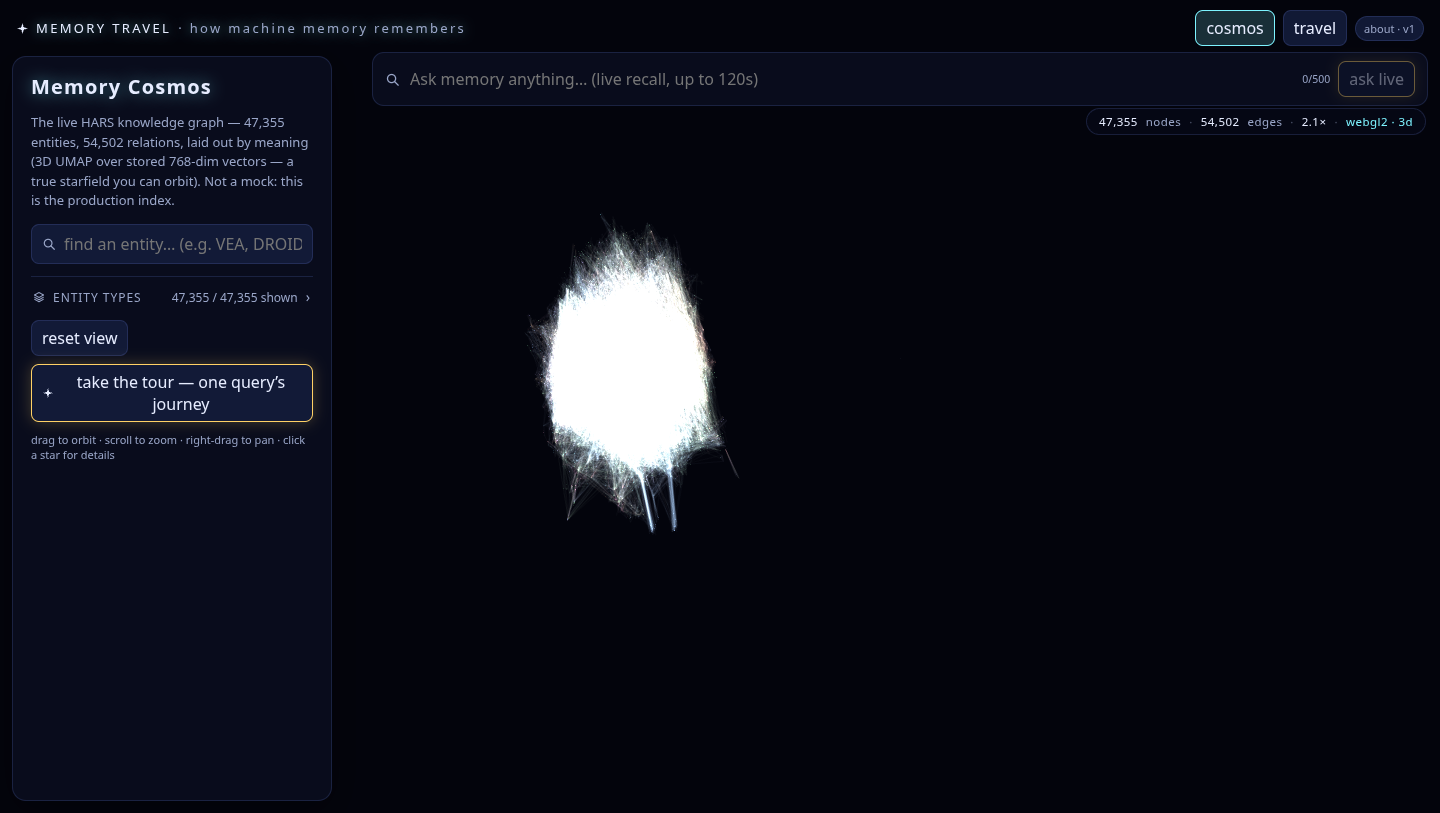
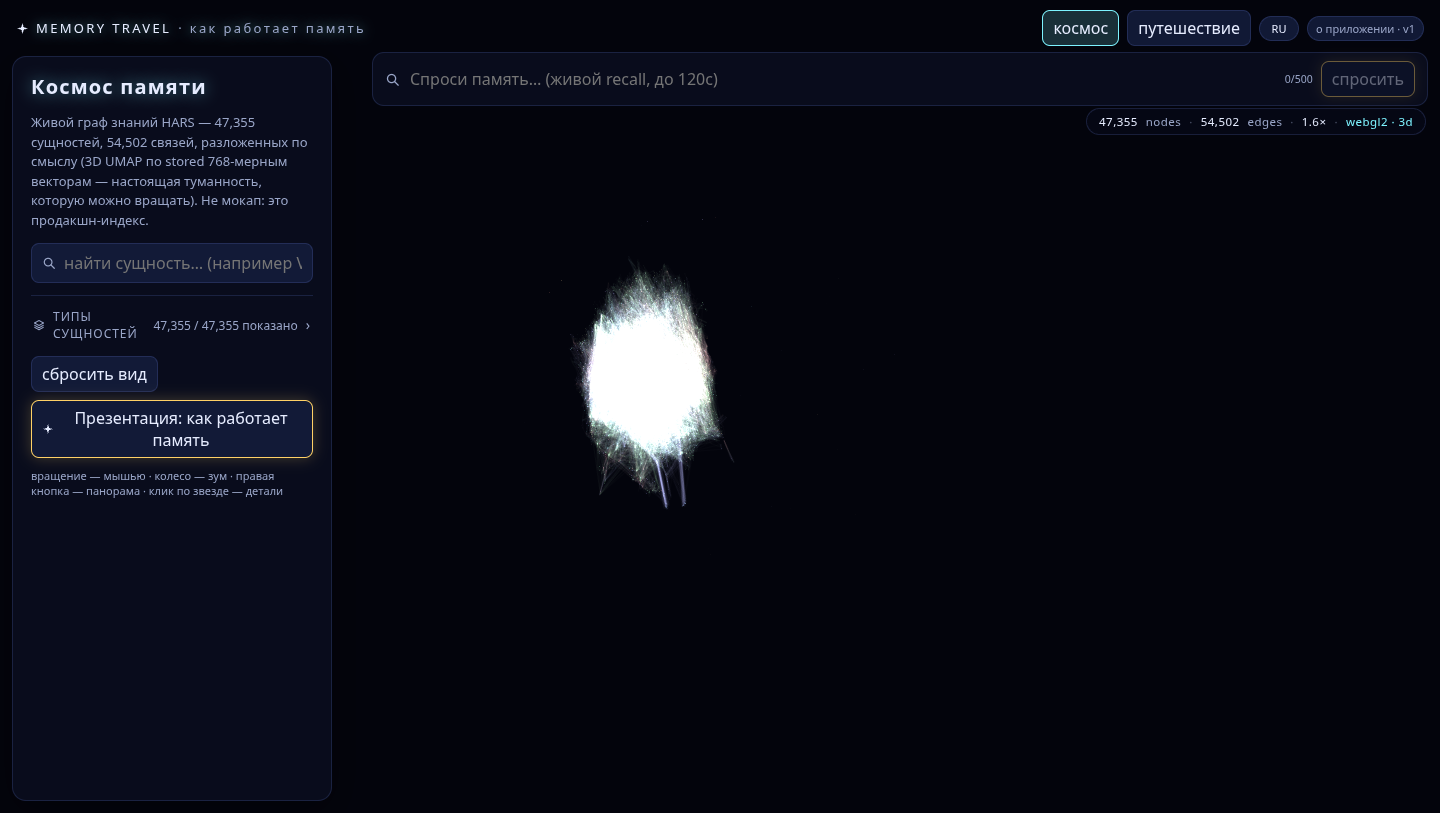
fix(pres/travel): world-coord camera keyframes; marker shader uniform; render-skip for hidden canvases; docs
- journey camera contexts (TravelView + PresentationView) now pass WORLD
  coords to stageCamera (raw UMAP units put the camera at the origin staring
  at empty space); presentation replays the chapter after trace load so the
  keyframe wins over fit().
- MARKER_FRAG: declare uPulse (markers silently failed to compile - the
  journey beacons were invisible).
- Cosmos3D: skip controls+render when the canvas is hidden (presentation fps
  5 -> 53 under SwiftShader); dpr cap 1.5; star presence +fog easing.
- docs/presentation.md (chapters, controls, provenance, RU strings referenced);
  screenshots for cosmos/travel/inspector/chunk-viewer/presentation.

diff --git a/app/src/components/PresentationView.tsx b/app/src/components/PresentationView.tsx
@@ -98,6 +98,7 @@ export default function PresentationView({ onExit }: { onExit: () => void }) {
     // eslint-disable-next-line react-hooks/exhaustive-deps
   }, [cosmosFull, graph, posByIdx, chViz]);
 
+  const [traceLoaded, setTraceLoaded] = useState(0);
   useEffect(() => {
     if (chViz !== "trace" || !cosmosTrace || !trace) return;
     let dead = false;
@@ -118,7 +119,13 @@ export default function PresentationView({ onExit }: { onExit: () => void }) {
           return p ? toWorld3(p) : null;
         }),
       )
-      .then(() => !dead && setProgress(null))
+      .then(() => {
+        if (dead) return;
+        setProgress(null);
+        // load() ends with fit(): re-run the chapter choreography so the
+        // chapter camera keyframe wins over the fit position
+        setTraceLoaded((v) => v + 1);
+      })
       .catch((e) => !dead && setProgress(String(e)));
     return () => {
       dead = true;
@@ -172,12 +179,13 @@ export default function PresentationView({ onExit }: { onExit: () => void }) {
     } else if (trace) {
       const stage = ch.stage ?? 0;
       const qpos = trace.query.xyz ?? null;
+      const W = (p: XYZ | null): XYZ | null => (p ? toWorld3(p) : null);
       const key = stageCamera(stage, {
-        query: qpos,
-        vecCluster: centroid(trace.vector_hits.slice(0, 12).map((h) => h.xyz).filter((p): p is XYZ => !!p)),
-        seeds: centroid(trace.graph.nodes.filter((n) => n.seed).map((n) => n.xyz).filter((p): p is XYZ => !!p)),
-        bm25: centroid(trace.bm25_hits.slice(0, 12).map((h) => h.xyz).filter((p): p is XYZ => !!p)),
-        scene: qpos,
+        query: W(qpos),
+        vecCluster: W(centroid(trace.vector_hits.slice(0, 12).map((h) => h.xyz).filter((p): p is XYZ => !!p))),
+        seeds: W(centroid(trace.graph.nodes.filter((n) => n.seed).map((n) => n.xyz).filter((p): p is XYZ => !!p))),
+        bm25: W(centroid(trace.bm25_hits.slice(0, 12).map((h) => h.xyz).filter((p): p is XYZ => !!p))),
+        scene: W(qpos),
       });
       if (j3d) j3d.cameraFly(key.pos, key.target, 1400, "inout");
       const paint = (names: string[], color: typeof INK.cyan) => {
@@ -247,7 +255,7 @@ export default function PresentationView({ onExit }: { onExit: () => void }) {
       });
     };
     // eslint-disable-next-line react-hooks/exhaustive-deps
-  }, [chapter, trace, cosmosFull, cosmosTrace, chViz, posOf]);
+  }, [chapter, trace, cosmosFull, cosmosTrace, chViz, posOf, traceLoaded]);
 
   useEffect(() => {
     if (progress) return; // wait for data

diff --git a/app/src/lib/cosmos3d.ts b/app/src/lib/cosmos3d.ts
@@ -113,7 +113,7 @@ const POINT_FRAG = /* glsl */ `
     // Small per-star contribution: with 47k stars the GLOW comes from
     // additive overlap in dense clusters — vivid cores wash to white if
     // each sprite contributes too much.
-    float a = (core * 0.22 + halo * 0.08) * vAlpha;
+    float a = (core * 0.28 + halo * 0.10) * vAlpha;
     gl_FragColor = vec4(vColor * (0.72 + core * 0.55), a);
   }
 `;
@@ -162,6 +162,7 @@ const LINE_FRAG = /* glsl */ `
 
 const MARKER_VERT = POINT_VERT;
 const MARKER_FRAG = /* glsl */ `
+  uniform float uPulse; // seconds — beacons breathe
   varying vec3 vColor;
   varying float vAlpha;
   void main() {
@@ -264,7 +265,9 @@ export class Cosmos3D implements CosmosLike, Journey3D {
     }
     this.canvas = canvas;
     this.renderer = renderer;
-    this.dpr = Math.min(2, window.devicePixelRatio || 1);
+    // SwiftShader-class software rasterizers choke on dpr≥2 at 47k additive
+    // points; 1.5 keeps real-GPU sharpness while staying fast in software.
+    this.dpr = Math.min(1.5, window.devicePixelRatio || 1);
     renderer.setPixelRatio(this.dpr);
     renderer.setClearColor(BG, 1);
     this.camera = new THREE.PerspectiveCamera(55, 1, 0.1, 4000);
@@ -286,6 +289,10 @@ export class Cosmos3D implements CosmosLike, Journey3D {
     this.ro.observe(canvas);
     this.startPulseClock();
     this.renderer.setAnimationLoop(() => {
+      // hidden canvases (tab switches, presentation's inactive canvas) skip
+      // both the controls update and the render — keeps software rasterizers
+      // from burning frames on an invisible view
+      if (this.canvas && this.canvas.offsetParent === null) return;
       this.controls?.update();
       this.renderer?.render(this.scene, this.camera!);
     });
@@ -371,7 +378,7 @@ export class Cosmos3D implements CosmosLike, Journey3D {
       uniforms: {
         uScale: { value: this.pointScale() },
         uTime: { value: 0 },
-        uFog: { value: 0.55 },
+        uFog: { value: 0.4 },
         uFogRef: { value: this.fitDist },
       },
       transparent: true,

diff --git a/app/src/lib/presentation.ts b/app/src/lib/presentation.ts
@@ -40,7 +40,7 @@ export const CHAPTERS: PresentationChapter[] = [
     viz: "cosmos",
     title: { ru: "Что это", en: "What this is" },
     narration: ({ nodes, edges }) => ({
-      ru: `Перед вами долговременная память агента: ${MEASURED.docs.toLocaleString("ru-RU")} заметок превращены в ${nodes.toLocaleString("ru-RU")} сущностей и ${edges.toLocaleString("ru-RU")} связей. Это GraphRAG-гибрид: векторный поиск по смыслу + knowledge graph + BM25 по словам. Каждая звезда — реальная сущность продакшн-индекса, положение — 3D UMAP по 768-мерным векторам.`,
+      ru: `Перед вами долговременная память агента: ${MEASURED.docs.toLocaleString("ru-RU")} заметки превращены в ${nodes.toLocaleString("ru-RU")} сущностей и ${edges.toLocaleString("ru-RU")} связей. Это GraphRAG-гибрид: векторный поиск по смыслу + knowledge graph + BM25 по словам. Каждая звезда — реальная сущность продакшн-индекса, положение — 3D UMAP по 768-мерным векторам.`,
       en: `This is an agent's long-term memory: ${MEASURED.docs.toLocaleString("en-US")} notes distilled into ${nodes.toLocaleString("en-US")} entities and ${edges.toLocaleString("en-US")} relations. A GraphRAG hybrid: semantic vector search + a knowledge graph + BM25 over words. Every star is a real entity of the production index; positions are a 3D UMAP of 768-dim vectors.`,
     }),
     fact: ({ nodes, edges }) => ({

diff --git a/app/src/components/TravelView.tsx b/app/src/components/TravelView.tsx
@@ -277,8 +277,11 @@ export default function TravelView({ cosmos, manifest, liveTrace }: Props) {
     return arr;
   }, [trace, ringDepth]);
 
-  // journey-camera context per stage
+  // journey-camera context per stage (WORLD coords — stageCamera distances
+  // are world-scale; raw UMAP units would put the camera near the origin,
+  // staring at mostly empty space)
   const camCtx = useMemo(() => {
+    const W = (p: XYZ | null): XYZ | null => p ? toWorld3(p) : null;
     const vc = centroidOfList(trace?.vector_hits.slice(0, 12).map(hitPos).filter((p): p is XYZ => p !== null) ?? []);
     const seeds = trace?.graph.nodes.filter((n) => n.seed).map((n) => p3(n)).filter((p): p is XYZ => p !== null) ?? [];
     const bc = centroidOfList(trace?.bm25_hits.slice(0, 12).map(hitPos).filter((p): p is XYZ => p !== null) ?? []);
@@ -287,7 +290,7 @@ export default function TravelView({ cosmos, manifest, liveTrace }: Props) {
       ...(vc ? [vc] : []),
       ...seeds,
     ]);
-    return { query: queryPos, vecCluster: vc, seeds: centroidOfList(seeds), bm25: bc, scene: all };
+    return { query: W(queryPos), vecCluster: W(vc), seeds: W(centroidOfList(seeds)), bm25: W(bc), scene: W(all) };
     // eslint-disable-next-line react-hooks/exhaustive-deps
   }, [trace, posOf, queryPos]);
 

diff --git a/docs/presentation.md b/docs/presentation.md
@@ -1,0 +1,81 @@
+# Presentation mode — «Презентация: как работает память»
+
+A guided 9-chapter walkthrough of how the HARS long-term memory works, driven
+entirely by real data (the exported 47k-entity graph + one real `memory_recall`
+trace). Launched from the tour button on the cosmos panel; `Esc` exits.
+
+Bilingual from day one: RU (default) and EN, switchable mid-presentation via
+the RU/EN toggle (top-right) — the chapter position is kept, only the strings
+swap. Language persists in `localStorage` (`mt.lang.v1`).
+
+## Controls
+
+| Key / UI | Action |
+| --- | --- |
+| `←` / `→` | previous / next chapter |
+| `Space` | play / pause the current chapter's animation |
+| `F` | fullscreen |
+| `Esc` | close chapter menu, or exit the presentation |
+| «Главы» button | chapter menu overlay |
+| «данные этапа ⚙» | opens the stage inspector over the live scene (trace chapters) |
+| RU / EN toggle | switch narration language without losing position |
+
+## Chapters (viz source: `cosmos` = full 47k starfield, `trace` = the recall subgraph)
+
+The narration texts below are the exact strings from
+`app/src/lib/presentation.ts` (type-safe `L10n {ru, en}` pairs — a missing
+translation is a build error). `{…}` are filled with real trace telemetry at
+runtime.
+
+### 1. Что это / What this is — `cosmos`
+- **RU:** «Перед вами долговременная память агента: 1 854 заметки превращены в {nodes} сущностей и {edges} связей. Это GraphRAG-гибрид: векторный поиск по смыслу + knowledge graph + BM25 по словам. Каждая звезда — реальная сущность продакшн-индекса, положение — 3D UMAP по 768-мерным векторам.»
+- **EN:** “This is an agent's long-term memory: 1,854 notes distilled into {nodes} entities and {edges} relations. A GraphRAG hybrid: semantic vector search + a knowledge graph + BM25 over words. Every star is a real entity of the production index; positions are a 3D UMAP of 768-dim vectors.”
+- **Fact:** `47 355 сущностей · 54 502 связей — не мокап, а живой индекс.`
+
+### 2. Как знание попадает в память / How knowledge enters memory — `cosmos`
+- Shows a REAL note (`docs-specs-demo-alignment-task.spec.md`), its REAL
+  md_struct section chunks (heading path / line ranges / tokens), and the
+  teacher's REAL extraction records — exported verbatim from the index kv
+  stores by `scripts/export_ingest_fixture.py` into `app/public/data/ingest_fixture.json`.
+- **RU:** «Заметка разрезается md_struct-чанкером по секциям (заголовки → секции → чанки с номерами строк). Учитель — локальная 27B модель — извлекает из каждого чанка сущности и связи; мердж идёт в общий граф. Справа в карточке — настоящая заметка и её настоящие extraction-записи из кэша учителя.»
+
+### 3. Вопрос → эмбеддинг / Question → embedding — `trace` (stage: query)
+- The magenta query beacon lands at the question's true UMAP position.
+- **Fact (real):** «dense-поиск по 30 чанкам занял 36.65 мс.»
+
+### 4. Параллельные каналы / Parallel channels — `trace` (stage: vector)
+- Cyan vector hits pulse in staggered by score; the narration contrasts the
+  channels' failure modes.
+
+### 5. Фьюжн / Fusion — `trace` (stage: fusion)
+- Orange fused-ranking pulses; real α = 0.5; fact: `fusion recall@10 = 0.979 при 12.7 мс`.
+
+### 6. Реранк / Rerank — `trace` (stage: rerank)
+- White flares mark chunks that moved; guardrail/skip behaviour from telemetry.
+
+### 7. Сборка контекста / Context assembly — `trace` (stage: context)
+- Gold lines connect the query marker to every context entity; budget numbers
+  (15 000 chars, 6 000 per doc, whole-document granularity).
+
+### 8. Синтез / Synthesis — `trace` (stage: answer)
+- The pink journey trail through query → fusion hits → answer anchors, camera
+  pulled back; per-fact citations.
+
+### 9. Цифры / The numbers — `cosmos`
+- Measured results: `fusion recall@10 = 0.979 @ 12.7 мс; реранк ~1.6 с на iGPU;
+  1 854 документа, 60 117 связей`.
+
+## Data provenance
+
+- Full graph: `app/public/data/graph.json` (+3D UMAP coords) — exported from
+  the production index, see `docs/SETUP.md` §3.
+- Trace: `app/public/data/traces/trace_01.json` — compiled from a captured
+  `memory_recall` fixture.
+- Ingest fixture: `app/public/data/ingest_fixture.json` — verbatim index
+  records (no synthesis).
+
+## Reduced motion / fallback
+
+`prefers-reduced-motion` collapses the CSS animations globally (media query in
+`index.css`); without WebGL2 the Canvas2D fallback renderer drives the same
+chapters in flat projection (camera flights degrade to eased zooms).
